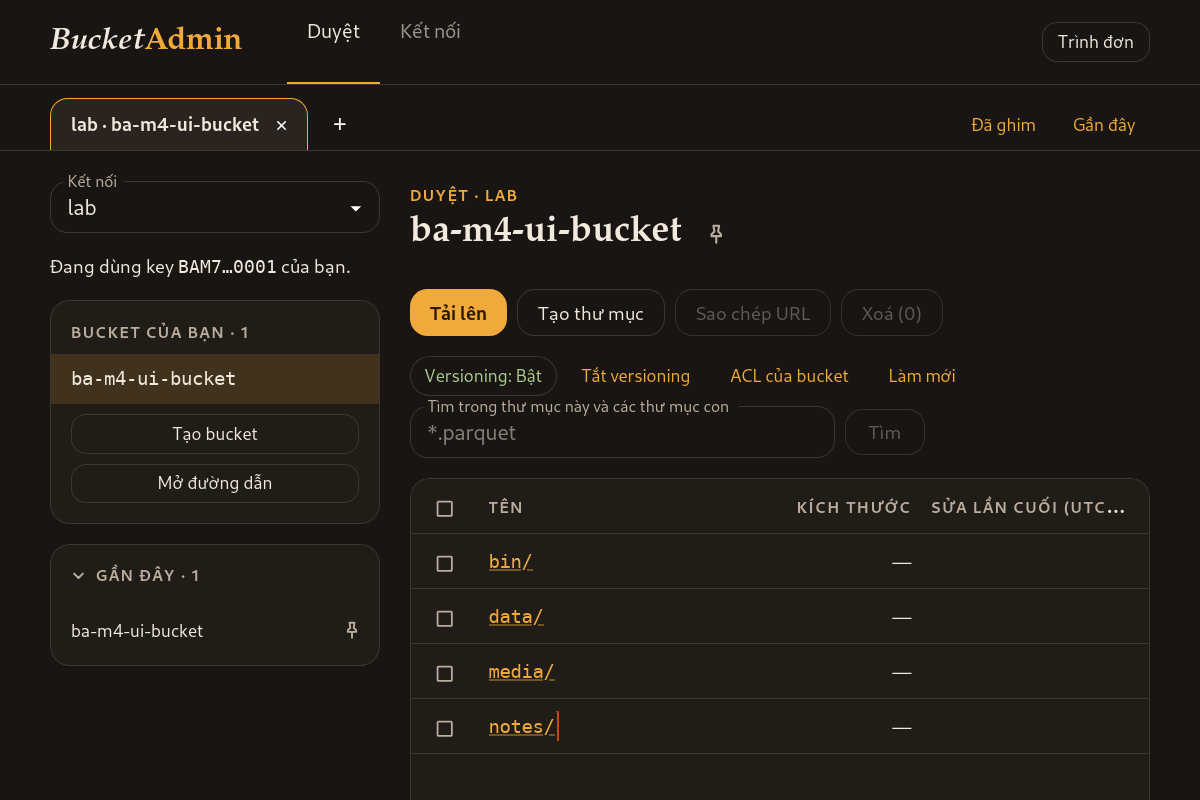
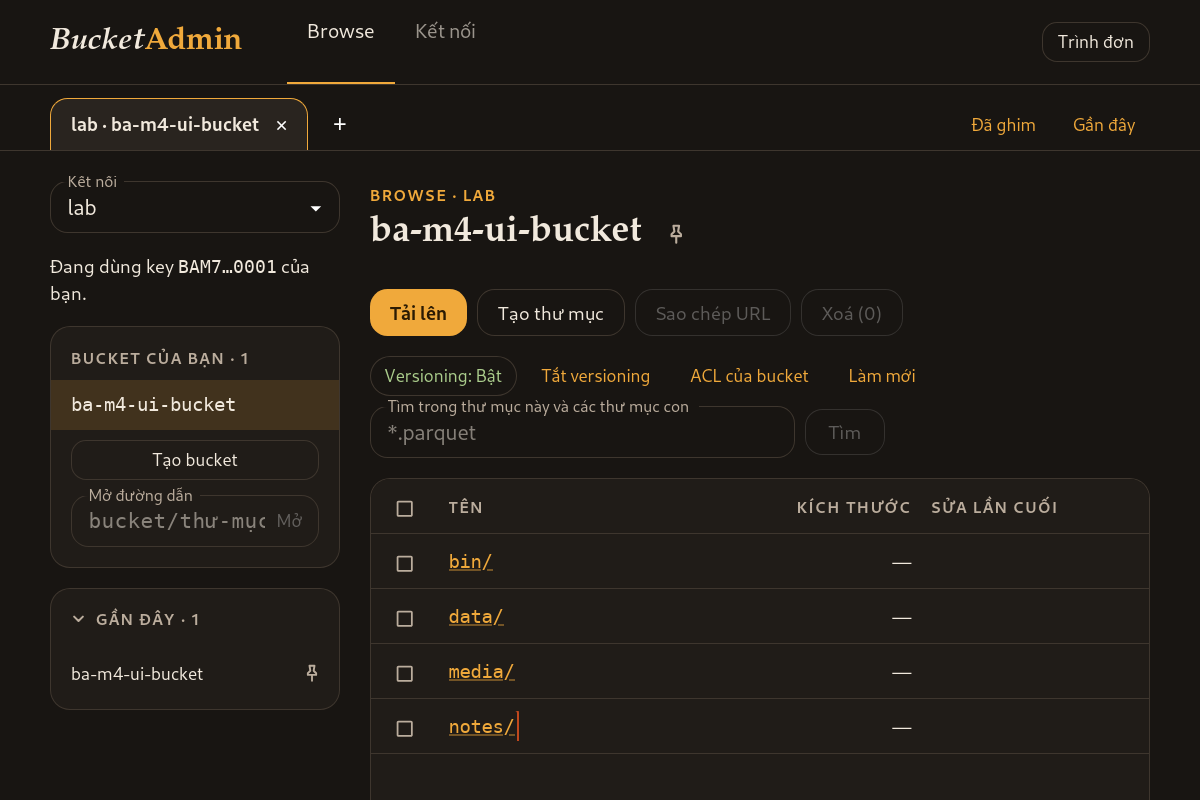
M12.6: docs and pictures for the M12 changes
- Both READMEs: Open path is the suggesting field of the bucket card, a
  filter in every list, start paths as chips under Advanced, the new
  add-connection flow (four required fields, answer inside the form), the
  "Last modified" heading with the zone said once, and the small-window
  matrix (900-1920 px at 100/125/150 %). Same "## " sections in both.
- Pictures regenerated from the vi and en UI smoke runs and the responsive
  pass of this tree; new: connection-empty, responsive-900, responsive-1920
  (each .png and .vi.png).
- Browse: the connection field of the sidebar drops its width floor there,
  so it is as wide as the column at every breakpoint.

diff --git a/src/Browse.tsx b/src/Browse.tsx
@@ -544,6 +544,8 @@ export default function Browse({ profiles, start, active, startTransfer, onPlace
             // Room for the focus rings the scroll box would cut.
             p: "4px",
             m: "-4px",
+            // The connection field has a width floor for other screens; here it is as wide as the column, less the scroll bar.
+            "& > .MuiTextField-root, & > .MuiAutocomplete-root": { minWidth: 0 },
             // What the sidebar holds besides the bucket list (see LIST_MAX_HEIGHT in BucketPanel).
             "--ba-side-rest": canBrowseAs ? "451px" : "395px",
             [SHORT]: { maxHeight: "calc(var(--ba-pane-h, 100vh) - 12px)", gap: 1, "--ba-side-rest": canBrowseAs ? "332px" : "276px" },

diff --git a/README.vi.md b/README.vi.md
@@ -19,14 +19,18 @@ App nói chuyện thẳng với endpoint S3 của RGW. Không cần cài gì lê
   không dùng proxy, hoặc một proxy tự nhập; endpoint nội bộ được gợi ý "Không dùng proxy".
 - **Nhiều tab**: mỗi tab ở một vị trí (kết nối + bucket + thư mục) và giữ nguyên danh sách, vị trí cuộn, các dòng đang chọn khi
   bạn sang tab khác (phím tắt: xem mục Phím tắt). Các tab đang mở sẽ hiện lại khi mở app lần sau.
-- **Mở đường dẫn**: gõ `bucket` hoặc `bucket/thư-mục/` để tới thẳng nơi đó, kể cả khi key của bạn chỉ được liệt kê đúng một
-  thư mục; mỗi kết nối có thể có một đường dẫn bắt đầu tự mở (xem Quyền theo thư mục).
+- **Mở đường dẫn**: một ô nằm ngay trong khung bucket ở cột bên trái. Gõ `bucket` hoặc `bucket/thư-mục/`, app gợi ý từng cấp
+  trong danh sách xổ xuống dưới ô: các bucket bắt đầu bằng phần đã gõ, rồi các thư mục S3 liệt kê tại đó. `Tab` hoặc `→` lấy
+  dòng đang chọn, `Enter` để mở. Dùng được cả khi key của bạn chỉ được liệt kê đúng một thư mục; mỗi kết nối có thể có các
+  đường dẫn bắt đầu, đường dẫn đầu tiên tự mở (xem Quyền theo thư mục).
 - **Đã ghim**: đánh dấu bucket và thư mục sâu bên trong, bấm một lần là tới, nằm ở cột bên trái và trên thanh ứng dụng, nhớ
   qua các lần mở app (xem Vị trí đã ghim).
-- **Danh sách bucket**: key sở hữu bao nhiêu bucket thì danh sách vẫn cao cố định và cuộn bên trong khung; trên 8 bucket có ô
-  lọc (`↑` `↓` di chuyển, `Enter` mở, `Esc` bỏ lọc), tiêu đề hiện số bucket.
+- **Danh sách bucket**: key sở hữu bao nhiêu bucket thì danh sách vẫn cao cố định và cuộn bên trong khung; từ 2 bucket trở
+  lên có ô lọc (`↑` `↓` di chuyển, `Enter` mở, `Esc` bỏ lọc), tiêu đề hiện số bucket.
+- **Danh sách nào cũng lọc được**: khung Đã ghim (trên 5 vị trí, theo tên hoặc đường dẫn), danh sách Gần đây đầy đủ (trên 8)
+  và trình đơn Đã ghim trên thanh app (trên 8) có cùng ô lọc như danh sách bucket: `Esc` để bỏ lọc, có số đếm "3 / 12".
 - **Bộ chọn đường dẫn cho thấy quyền của bạn**: Mở đường dẫn, ghim một đường dẫn gõ tay và đường dẫn bắt đầu của kết nối dùng
-  chung một bộ chọn. Nó hiện "Đường dẫn bạn dùng được" (đường dẫn bắt đầu, vị trí đã ghim, vị trí gần đây và, nếu key được đọc,
+  chung một bộ chọn. Nó hiện "Đường dẫn của bạn" (các đường dẫn bắt đầu, vị trí đã ghim, vị trí gần đây và, nếu key được đọc,
   phần bucket policy cấp) và, khi bạn gõ, các thư mục mà S3 liệt kê đúng tại đường dẫn đó, bấm một lần để đi sâu hơn. Khi key
   không được liệt kê ở đó, một gợi ý màu hổ phách báo như vậy; đường dẫn vẫn mở được. App không bao giờ liệt kê phía trên
   phần bạn đã gõ.
@@ -50,7 +54,11 @@ App nói chuyện thẳng với endpoint S3 của RGW. Không cần cài gì lê
   "Hiện object đã xoá" rồi khôi phục trong mục Phiên bản); bucket không bật thì app cảnh báo đỏ trước khi xoá.
 - **Sao chép URL**: presigned URL 15 phút của object, vào thẳng clipboard; thời hạn khác thì đặt trong mục Thuộc tính.
 - Tìm kiếm đệ quy có giới hạn (`*.parquet`, `logs/2026-*`…).
-- Mọi thời gian hiển thị theo giờ Việt Nam (UTC+7), ở cả hai ngôn ngữ.
+- Mọi thời gian hiển thị theo giờ Việt Nam (UTC+7), ở cả hai ngôn ngữ; múi giờ được ghi một lần dưới danh sách và trong chú
+  thích của tiêu đề cột "Sửa lần cuối".
+- **Vừa với cửa sổ nhỏ**: đã kiểm tra từ 900 đến 1920 px bề ngang, ở cỡ 100, 125 và 150%. Không có gì phải cuộn ngang; ở cửa
+  sổ hẹp danh sách bỏ cột ngày sửa và storage class (vẫn có trong phần thuộc tính của object), còn cột bên trái tự cuộn bên
+  trong, phía trên khung Tác vụ.
 - **Cài đặt chung** (cuối màn hình Kết nối): proxy cho cả app; cỡ giao diện với bộ nút `A- 100% A+` (80, 90, 100, 110, 125,
   150%) phóng to hay thu nhỏ toàn bộ app như zoom của trình duyệt và được nhớ cho lần mở sau; ngôn ngữ `VI | EN` đổi ngay,
   không cần mở lại app. Lần đầu app theo ngôn ngữ của hệ thống.
@@ -58,6 +66,8 @@ App nói chuyện thẳng với endpoint S3 của RGW. Không cần cài gì lê
   app); log không bao giờ chứa secret hay presigned URL.
 
 ![Giao diện sáng](docs/images/browse.light.vi.png)
+
+![Lần đầu mở app: chưa có kết nối](docs/images/connection-empty.vi.png)
 
 ![Thêm kết nối](docs/images/connection.vi.png)
 
@@ -79,6 +89,10 @@ App nói chuyện thẳng với endpoint S3 của RGW. Không cần cài gì lê
 
 ![Giao diện ở cỡ 125%](docs/images/zoom.vi.png)
 
+![Cửa sổ 900 px](docs/images/responsive-900.vi.png)
+
+![Cửa sổ 1920 px](docs/images/responsive-1920.vi.png)
+
 ## Cài đặt
 
 Yêu cầu: Ubuntu 22.04 trở lên (amd64), có dịch vụ keyring (GNOME Keyring hoặc tương đương — mặc định có sẵn trên Ubuntu desktop).
@@ -99,9 +113,12 @@ Gỡ: `sudo apt remove bucketadmin`. Dữ liệu của app nằm ở `~/.local/s
 
 ## Bắt đầu nhanh
 
-**1. Thêm kết nối.** Mục **Kết nối** → điền tên, endpoint (ví dụ `https://rgw.example.com` hoặc `http://rgw.example.com:7480`),
-access key và secret key của bạn → **Kiểm tra kết nối** → **Lưu**. Bước kiểm tra chỉ liệt kê bucket qua S3, nên key thường
-không có caps nào cũng dùng được.
+**1. Thêm kết nối.** Mục **Kết nối** → **Thêm kết nối** → điền bốn ô bắt buộc: tên, endpoint (đã có sẵn `https://`; ví dụ
+`https://rgw.example.com` hoặc `http://rgw.example.com:7480`), access key và secret key của bạn → **Kiểm tra kết nối** (kết
+quả hiện ngay trong form) → **Lưu**. Nút Lưu chỉ bấm được khi đủ bốn ô, và cho biết ô nào còn thiếu trước tiên. Bước kiểm
+tra chỉ liệt kê bucket qua S3, nên key thường không có caps nào cũng dùng được. Đường dẫn bắt đầu, key admin và proxy riêng
+nằm trong phần **Nâng cao**, phần lớn kết nối không cần tới. Kết nối đã lưu có nút **Mở bucket**, **Sửa** (đường dẫn bắt
+đầu, proxy) và một trình đơn gồm Kiểm tra và Xoá.
 
 **2. Browse.** Mục **Browse** → chọn một bucket. Bucket được chia sẻ cho bạn (S3 không liệt kê) thì mở theo đường dẫn ở ô
 **Mở đường dẫn** của cột bên trái.
@@ -119,8 +136,10 @@ thường key không được liệt kê bucket. Với key như vậy:
 - **Mở đường dẫn** (cột bên trái của mục Browse) nhận `bucket` hoặc `bucket/thư-mục/…` và tới đúng nơi đó. `s3://bucket/thư-mục/`
   hay có dấu `/` ở đầu cũng như nhau; đường dẫn của một file (`bucket/thư-mục/report.csv`) thì mở thư mục chứa file. Thư mục
   có tên giống tên file (`v1.2`) thì cần dấu `/` ở cuối.
-- **Đường dẫn bắt đầu** (ô không bắt buộc của kết nối, sửa được cả với kết nối đã lưu): `team-bucket/project-a/` tự mở mỗi khi
-  mở kết nối đó, ở mọi tab mới.
+- **Đường dẫn bắt đầu** (không bắt buộc, trong phần Nâng cao của form; với kết nối đã lưu thì bấm Sửa): gõ
+  `team-bucket/project-a/` rồi nhấn `Enter` để thêm thành một thẻ, `×` để bỏ; một kết nối có thể có nhiều đường dẫn. Đường
+  dẫn đầu tiên tự mở mỗi khi mở kết nối đó, ở mọi tab mới. Tất cả đều được gợi ý ở mục "Đường dẫn của bạn" của bộ chọn
+  đường dẫn và là những dòng đầu của khung Đã ghim, dưới vạch "Từ kết nối".
 - Khi key không được liệt kê bucket, khung bucket nói rõ điều đó thay vì báo lỗi, và con trỏ đã nằm sẵn trong ô Mở đường dẫn.
   "Kiểm tra kết nối" vẫn đạt với key như vậy và nhắc bạn đặt đường dẫn bắt đầu.
 - Thanh đường dẫn vẫn đi ngược lên được. Phía trên thư mục của bạn, S3 trả lời "không có quyền"; thông báo khi đó chỉ lại về
@@ -142,7 +161,7 @@ Ghim những nơi bạn dùng hằng ngày: một bucket, hoặc một thư mụ
 
 ### Key admin (không bắt buộc)
 
-Khi thêm kết nối có thể nhập thêm một key admin. App chỉ dùng nó cho hai việc, và không bao giờ dùng nó để ký request S3:
+Khi thêm kết nối có thể nhập thêm một key admin (trong phần Nâng cao). App chỉ dùng nó cho hai việc, và không bao giờ dùng nó để ký request S3:
 
 | Việc | Caps cần ở key admin |
 |---|---|

diff --git a/README.md b/README.md
@@ -21,14 +21,18 @@ The pictures in this document come from the smoke test, run against a test clust
   suggests "No proxy".
 - **Tabs**: each tab is at one place (connection + bucket + folder) and keeps its listing, scroll position and ticked rows
   while you are in another tab (shortcuts: see Shortcuts). The open tabs come back when the app is started again.
-- **Open path**: type `bucket` or `bucket/folder/` to go straight there, also when your key may only list that one folder;
-  a connection can have a start path that is opened by itself (see Scoped access).
+- **Open path**: a field in the bucket card of the left column. Type `bucket` or `bucket/folder/` and it suggests path by
+  path in a dropdown under the field: the buckets that start with what is typed, then the folders S3 lists there. `Tab` or
+  `→` takes the highlighted row, `Enter` opens. It also works when your key may only list that one folder; a connection can
+  have start paths, the first of which is opened by itself (see Scoped access).
 - **Pinned**: bookmarks to buckets and to folders deep inside them, one click away in the left column and in the app bar,
   remembered between runs (see Pinned places).
 - **Bucket list**: however many buckets the key owns, the list keeps a fixed height and scrolls inside its card; a filter
-  field appears above 8 buckets (`↑` `↓` move, `Enter` opens, `Esc` clears) and the header shows the count.
+  field is there from 2 buckets on (`↑` `↓` move, `Enter` opens, `Esc` clears) and the header shows the count.
+- **A filter in every list**: the Pinned card (above 5 places, by name or path), the whole Recent list (above 8) and the app
+  bar's Pinned menu (above 8) have the same filter field as the buckets: `Esc` clears it, and it counts "3 of 12".
 - **See-your-access path picker**: Open path, pinning a typed path and a connection's start path share one picker. It shows
-  "Paths you can open" (start path, pins, recent places, and, when the key may read it, what a bucket policy grants) and, as
+  "Your paths" (start paths, pins, recent places, and, when the key may read it, what a bucket policy grants) and, as
   you type, the folders S3 lists at exactly that path, one click to go deeper. When the key may not list there, an amber hint
   says so; the path can still be opened. Nothing is ever listed above what you typed.
 - **Dark & light themes**: a warm-charcoal dark theme and a warm-paper light theme with the same amber accent, chosen in the
@@ -56,7 +60,11 @@ The pictures in this document come from the smoke test, run against a test clust
 - **Copy URL**: a 15-minute presigned URL of the object, straight to the clipboard; another lifetime can be set under
   Properties.
 - Recursive search with limits (`*.parquet`, `logs/2026-*`…).
-- Every time is shown in Vietnam time (UTC+7), in both languages.
+- Every time is shown in Vietnam time (UTC+7), in both languages; the zone is said once under the list and in the tooltip
+  of the "Last modified" heading.
+- **Fits small windows**: checked from 900 to 1920 px wide at 100, 125 and 150% size. Nothing scrolls sideways; in a narrow
+  window the list drops its date and storage-class columns (the object's properties keep them), and the left column scrolls
+  inside itself, above the Tasks panel.
 - **General settings** (at the bottom of the Connections screen): the proxy for the whole app; the interface size, with an
   `A- 100% A+` stepper (80, 90, 100, 110, 125, 150%) that makes the whole app bigger or smaller like a browser's zoom and is
   remembered for the next run; the language, `VI | EN`, which switches at once, without a restart. On first run the app
@@ -65,6 +73,8 @@ The pictures in this document come from the smoke test, run against a test clust
   folder); the log never holds a secret or a presigned URL.
 
 ![The light theme](docs/images/browse.light.png)
+
+![First run: no connection yet](docs/images/connection-empty.png)
 
 ![Adding a connection](docs/images/connection.png)
 
@@ -85,6 +95,10 @@ The pictures in this document come from the smoke test, run against a test clust
 ![A long bucket list stays inside its card](docs/images/buckets-many.png)
 
 ![The interface at 125%](docs/images/zoom.png)
+
+![A 900 px window](docs/images/responsive-900.png)
+
+![A 1920 px window](docs/images/responsive-1920.png)
 
 ## Install
 
@@ -107,9 +121,12 @@ To play compressed video / audio in the preview, the machine needs GStreamer's c
 
 ## Quick start
 
-**1. Add a connection.** **Connections** → fill in a name, the endpoint (for example `https://rgw.example.com` or
-`http://rgw.example.com:7480`), your access key and secret key → **Test connection** → **Save**. The test only lists buckets
-over S3, so an ordinary key without any caps works.
+**1. Add a connection.** **Connections** → **Add a connection** → fill in the four required fields: a name, the endpoint
+(`https://` is already there; for example `https://rgw.example.com` or `http://rgw.example.com:7480`), your access key and
+secret key → **Test connection** (the answer shows inside the form) → **Save**. Save stays disabled until the four fields
+are filled, and says which one comes first. The test only lists buckets over S3, so an ordinary key without any caps works.
+Start paths, an admin key and a proxy of its own are under **Advanced**, which most connections never need. A saved
+connection has **Browse buckets**, **Edit** (start paths, proxy) and a menu with Test and Delete.
 
 **2. Browse.** **Browse** → choose a bucket. A bucket that is shared with you (S3 does not list those) is opened by its path
 under **Open path** in the left column.
@@ -127,8 +144,10 @@ one prefix, and often the key may not list buckets at all. Such a key works like
 - **Open path** (left column of Browse) takes `bucket` or `bucket/folder/…` and lands exactly there. `s3://bucket/folder/` and
   a leading `/` mean the same; the path of a file (`bucket/folder/report.csv`) opens the folder the file is in. A folder whose
   name looks like a file name (`v1.2`) needs its trailing `/`.
-- **Start path** (optional field of a connection, also editable on a saved one): `team-bucket/project-a/` is opened by itself
-  whenever that connection is opened, in every new tab.
+- **Start paths** (optional, under Advanced in the form; under Edit on a saved connection): type `team-bucket/project-a/`
+  and press `Enter` to add it as a chip, `×` removes one; a connection can have several. The first is opened by itself
+  whenever that connection is opened, in every new tab. All of them are offered as "Your paths" in the path picker and are
+  the first rows of the Pinned card, under "From the connection".
 - When the key may not list buckets, the bucket card says so instead of showing an error, and the keyboard is already in the
   Open-path field. "Test connection" passes for such a key and tells you to set a start path.
 - The breadcrumb still leads upwards. Above your folder S3 answers "not allowed"; the message then points back to Open path.
@@ -149,7 +168,7 @@ Pin what you use every day: a bucket, or a folder any number of levels down.
 
 ### Admin key (optional)
 
-When adding a connection you may also enter an admin key. The app uses it for two things only, and never to sign S3 requests:
+When adding a connection you may also enter an admin key (under Advanced). The app uses it for two things only, and never to sign S3 requests:
 
 | What | Caps the admin key needs |
 |---|---|
